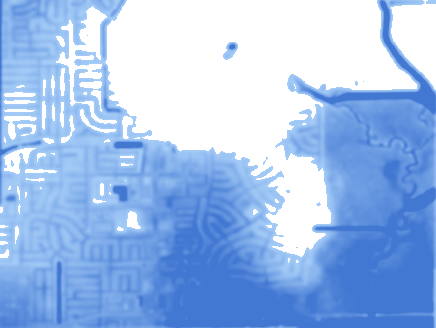
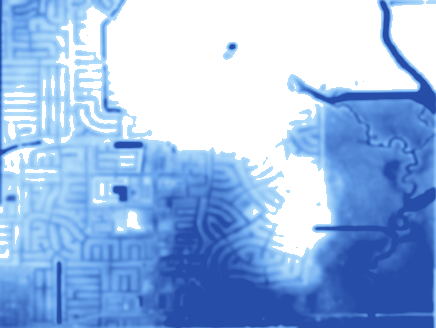
feat: hue-shaded water (shallow cyan -> blue -> deep navy) from the flood model; halftone dropped

diff --git a/web/src/map/SwiftMap.tsx b/web/src/map/SwiftMap.tsx
@@ -335,9 +335,9 @@ export default function SwiftMap({ ref, fx, t, statuses, selectedId, liveId, ima
       flood = [a, b].filter(Boolean).map((s, k) =>
         new BitmapLayer<BeforeId>({
           id: `depth-${k}`,
-          image: dataUrl(INK_STYLE ? s.png.replace('depth_', 'halftone_') : s.png),
+          image: dataUrl(s.png),
           bounds: [s.bounds[0][0], s.bounds[0][1], s.bounds[1][0], s.bounds[1][1]],
-          opacity: (INK_STYLE ? 0.95 : PIPELINE_DEPTH_OPACITY) * (k === 0 ? 1 - f : f),
+          opacity: (INK_STYLE ? 0.85 : PIPELINE_DEPTH_OPACITY) * (k === 0 ? 1 - f : f),
           beforeId: CONTEXT_BUILDINGS_LAYER,
         }),
       );

diff --git a/pipeline/depth.py b/pipeline/depth.py
@@ -80,14 +80,18 @@ def write_depth_stages(area: Area, curve: list[tuple[int, float]], out: Path) ->
     stages = []
     from scipy.ndimage import gaussian_filter
 
-    shallow, deep = np.array([110, 175, 245]), np.array([25, 90, 200])
+    # Three-stop ramp: shallow cyan -> mid blue -> deep navy, so depth reads as hue, not just opacity.
+    stops = np.array([[150, 214, 252], [64, 140, 232], [20, 62, 160]], dtype=float)
     for t, depth in zip(times, stack):
         depth = gaussian_filter(depth, sigma=1.5)  # soften DEM noise so water reads as water, not cloud
-        k = np.clip(depth / 6.0, 0, 1)[..., None]
+        k = np.clip(depth / 6.0, 0, 1)
+        lo = np.clip(k * 2, 0, 1)[..., None]
+        hi = np.clip(k * 2 - 1, 0, 1)[..., None]
+        rgb = np.where(k[..., None] < 0.5, stops[0] * (1 - lo) + stops[1] * lo, stops[1] * (1 - hi) + stops[2] * hi)
         rgba = np.zeros(depth.shape + (4,), dtype=np.uint8)
-        rgba[..., :3] = (shallow * (1 - k) + deep * k).astype(np.uint8)
+        rgba[..., :3] = rgb.astype(np.uint8)
         wet = depth > 0.3
-        rgba[..., 3] = np.where(wet, 150 + 60 * k[..., 0], 0).astype(np.uint8)
+        rgba[..., 3] = np.where(wet, 165 + 70 * k, 0).astype(np.uint8)
         name = f"depth_{t:03d}.png"
         Image.fromarray(rgba, "RGBA").save(out / name)
         stages.append({"t_min": t, "png": name, "bounds": bounds})
